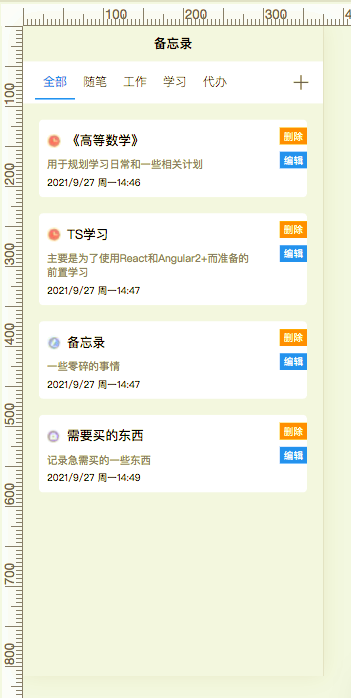
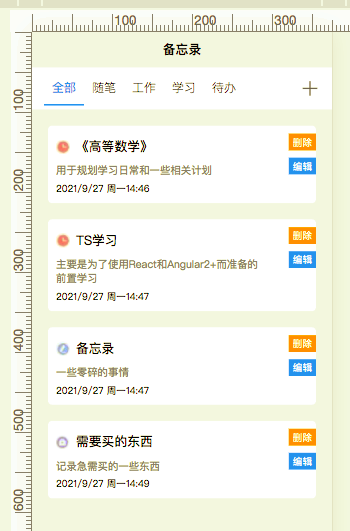
修改错别字『代办』->『待办』

diff --git a/pages/index/index.vue b/pages/index/index.vue
@@ -88,7 +88,7 @@
                     remark: "随笔",
                     work: "工作",
                     study: "学习",
-                    willdo: "代办"
+                    willdo: "待办"
                 }
             }
         },
